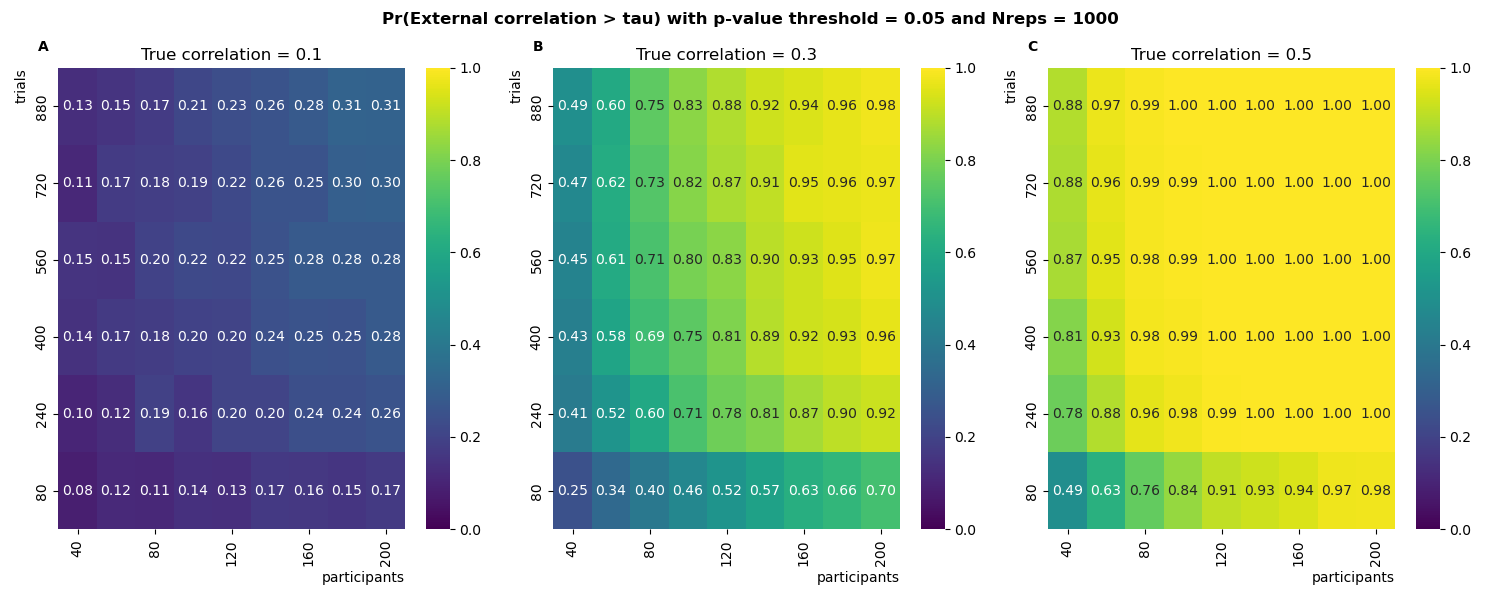
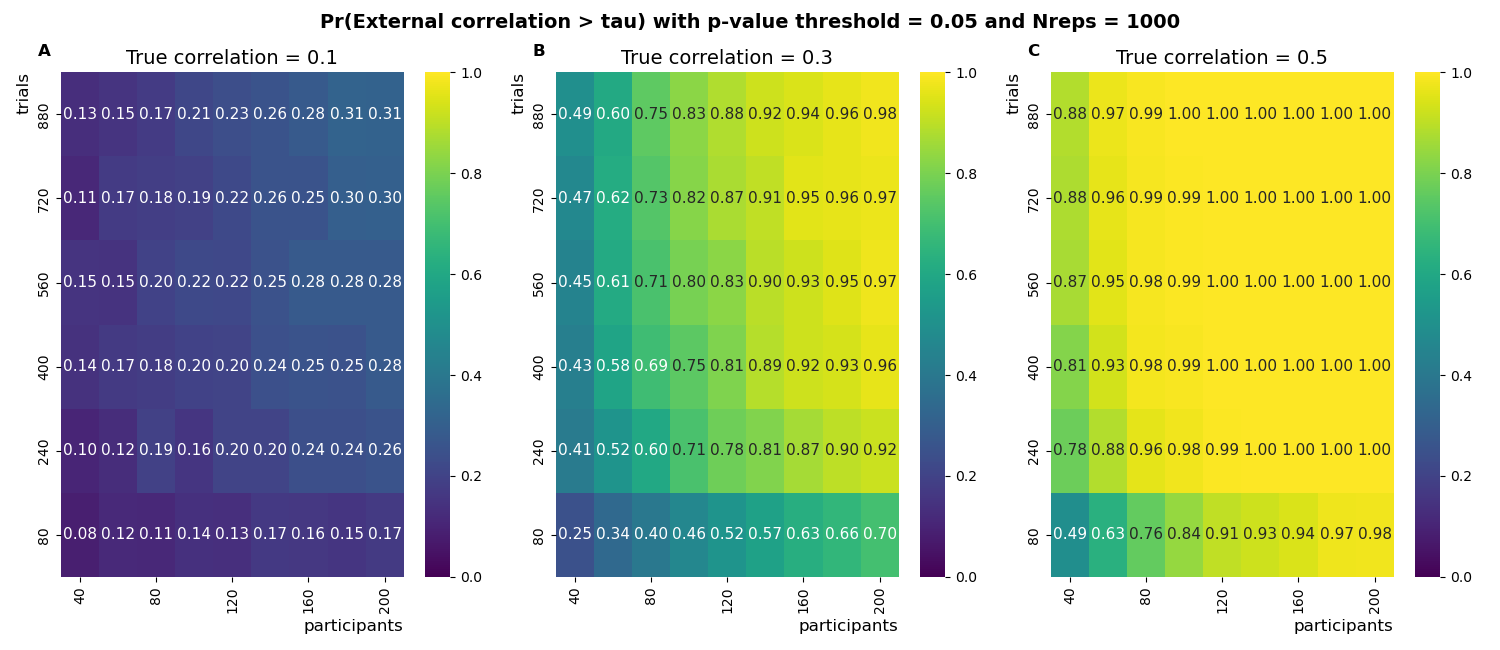
new figures

diff --git a/HPC_files/Heatmap_simulations.py b/HPC_files/Heatmap_simulations.py
@@ -14,7 +14,7 @@ from scipy import stats as stat
 
 
 folder = '/Users/pieter/Documents/GitHub/CogComNeuroSci_COMPASS/HPC_files/Output'
-criterion = 'GD'
+criterion = 'IC'
 sd = 0.1
 nreps = 1000
 
@@ -26,10 +26,9 @@ def plot3D(criterion = 'IC', ntrials = np.arange(80, 1000, 160),
         ES_text = ''
         #title = "Pr("+"\u03C1"+"("+ "\u1FB6" + "," + "\u03B1" +")) >= {}) with Nreps = {}".format(tau, nreps)
         title = "Pr(Internal correlation >= {}) with Nreps = {}".format(tau, nreps)
-        print(tau)
         tau = tau
     elif criterion == 'GD':
-        ess = [.2, .5]
+        ess = [.2, .5, .8]
         #title = "Pr(" + "\u1FB6" + "_g1 >" + "\u1FB6" + "_g2" + ") with p-value threshold = {} and Nreps = {}".format(typeIerror, nreps)
         title = "Pr(T-statistic > tau) with p-value threshold = {} and Nreps = {}".format(typeIerror, nreps)
     elif criterion == 'EC':
@@ -68,22 +67,22 @@ def plot3D(criterion = 'IC', ntrials = np.arange(80, 1000, 160),
 
             Power_array = Power_df
 
-        sns.heatmap(Power_array, vmin = 0, vmax = 1, ax = axes[i], cmap = "viridis", annot=True, fmt='.2f')
+        sns.heatmap(Power_array, vmin = 0, vmax = 1, ax = axes[i], cmap = "viridis", annot=True, annot_kws={"fontsize":11}, fmt='.2f')
         axes[i].invert_yaxis()
-        fig.suptitle(title, fontweight = 'bold')
-        axes[i].set_ylabel('trials', loc = 'top')
-        axes[i].set_xlabel('participants', loc = 'right')
-        if criterion == 'IC': axes[i].set_title("Learning rate SD = {}".format(sd))
-        elif criterion == 'GD': axes[i].set_title("Cohen\'s d = {}".format(ess[i]))
-        elif criterion == 'EC': axes[i].set_title("True correlation = {}".format(ess[i]))
+        fig.suptitle(title, fontweight = 'bold', fontsize = 14)
+        axes[i].set_ylabel('trials', loc = 'top', fontsize = 12)
+        axes[i].set_xlabel('participants', loc = 'right', fontsize = 12)
+        if criterion == 'IC': axes[i].set_title("Learning rate SD = {}".format(sd), fontsize = 14)
+        elif criterion == 'GD': axes[i].set_title("Cohen\'s d = {}".format(ess[i]), fontsize = 14)
+        elif criterion == 'EC': axes[i].set_title("True correlation = {}".format(ess[i]), fontsize = 14)
 
 
     labels = ["A", "B", "C"]
     coord = [(0.025, 0.91), (0.355, 0.91), (0.685, 0.91)]
     for j in  range(len(labels)):
         # label physical distance to the lef
-        fig.text(coord[j][0], coord[j][1], labels[j], fontsize='medium', fontweight = "bold", va='bottom')
-    fig.set_size_inches((15, 6), forward=False)
+        fig.text(coord[j][0], coord[j][1], labels[j], fontsize = 12, fontweight = "bold", va='bottom')
+    fig.set_size_inches((15, 6.5), forward=False)
     fig.tight_layout()
     fig.savefig(os.path.join(plot_folder, 'Heatmap{}_{}nreps.png'.format(criterion, nreps)))
 
